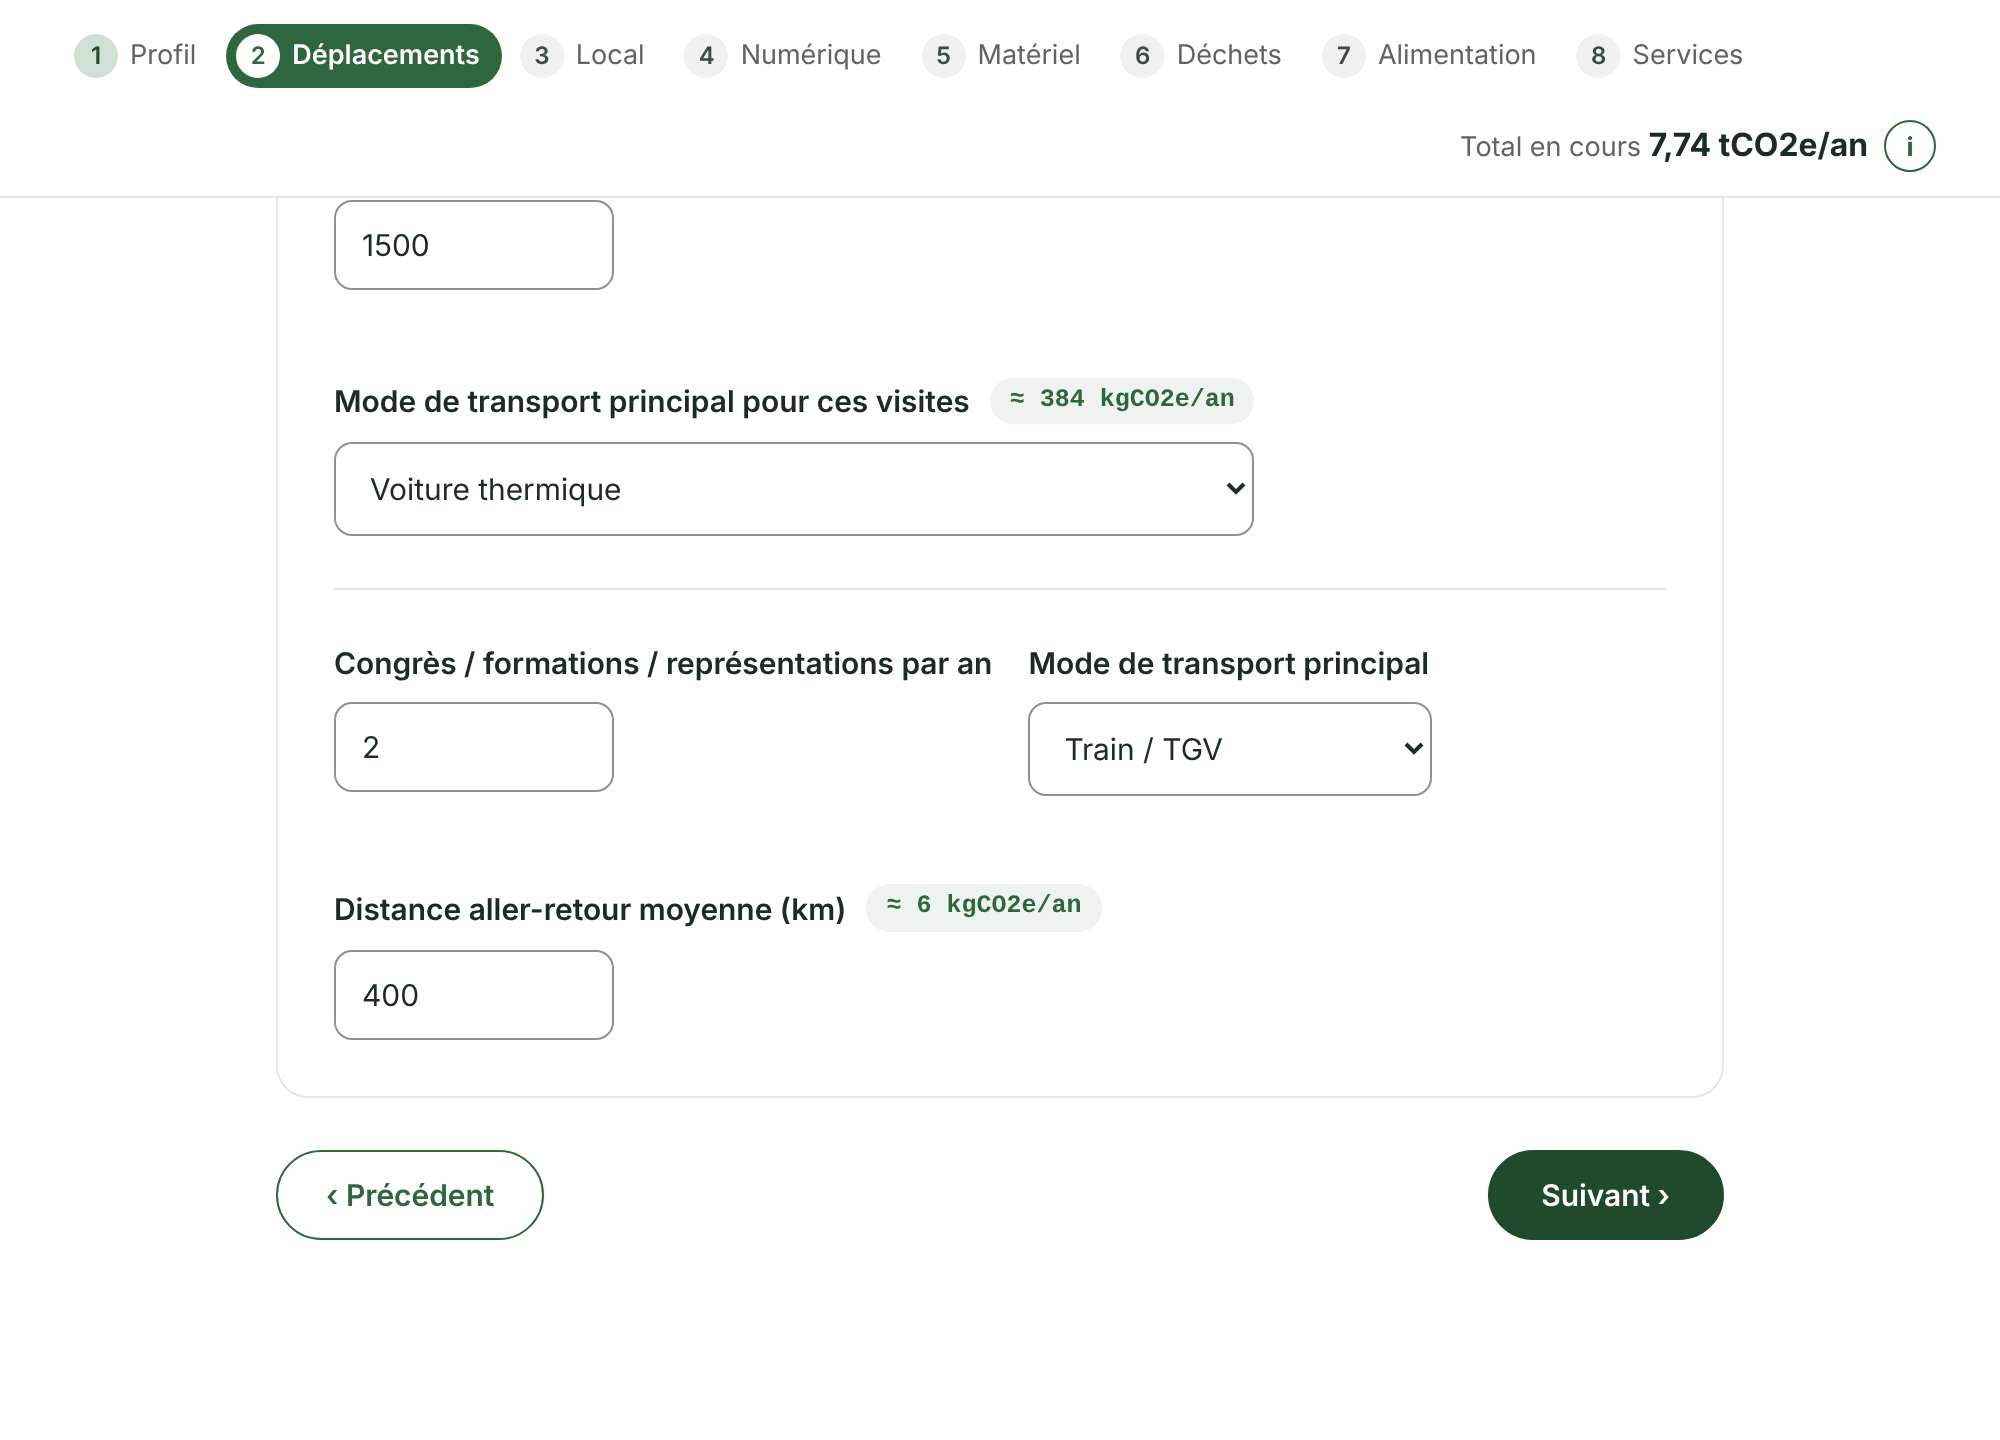
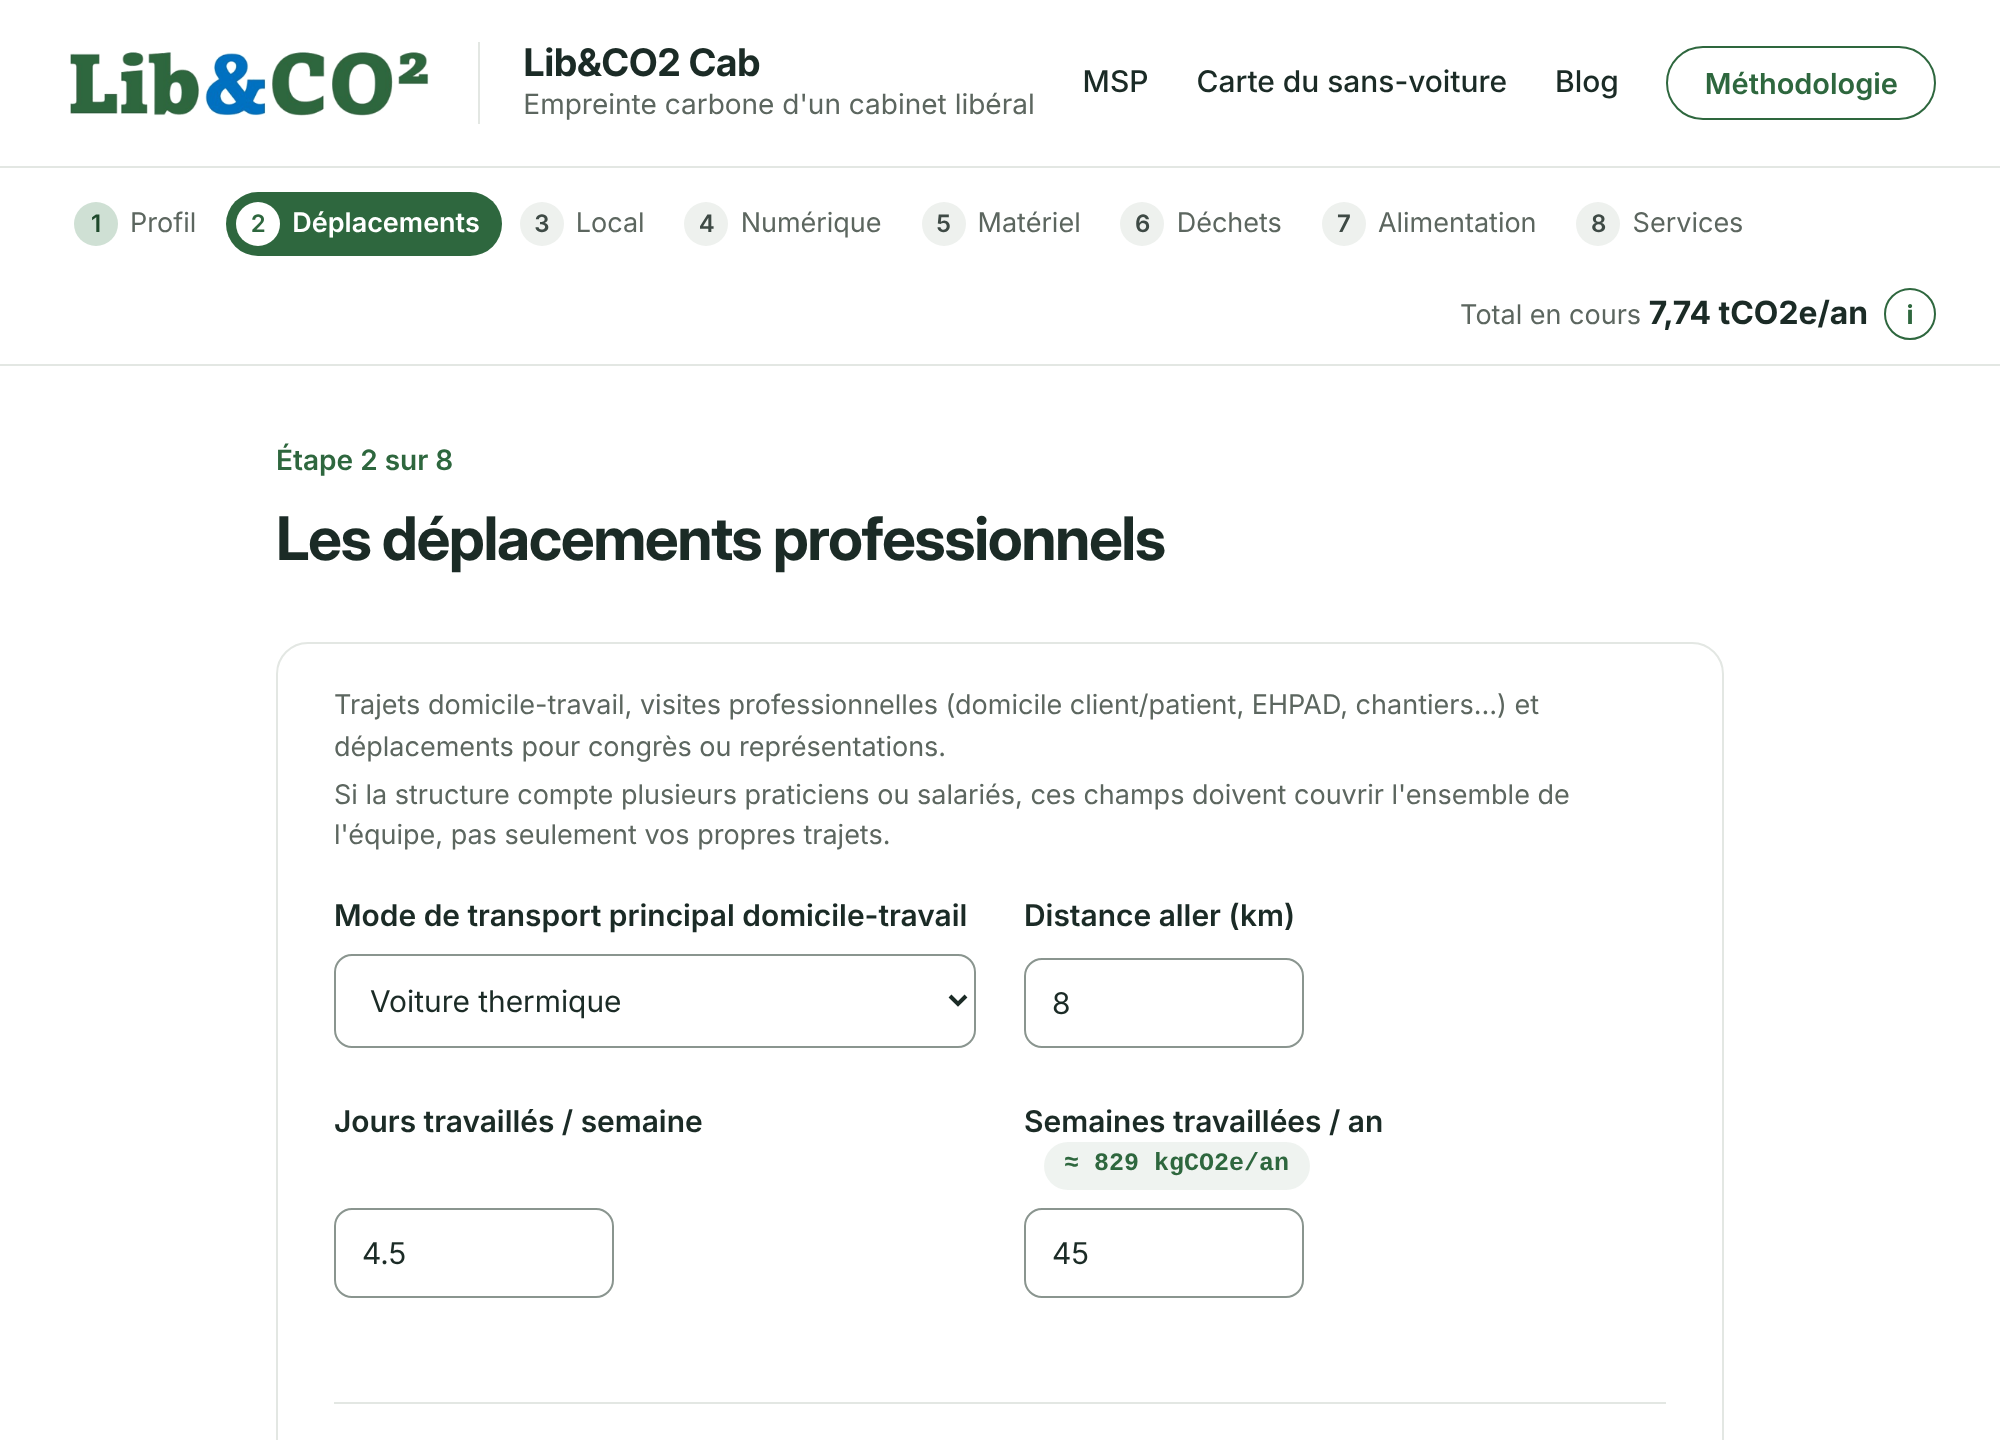
reprise esthetique de la page d'accueil

diff --git a/assets/css/accueil.css b/assets/css/accueil.css
@@ -1,6 +1,9 @@
-/* Accueil (index.html) — refonte du 03/11/2026 : fond blanc, grands titres
-   Inter, boutons en pilule, captures des outils ; aucun liseré de couleur,
-   cadres à bordure fine identique sur les quatre côtés. */
+/* Accueil (index.html) — agencement « proposition B » retenu le 03/11/2026 :
+   haut de page vert plein avec titre centré et capture qui déborde sur la
+   suite, chiffres clés, cartes d'outils (image, étiquette, titre, texte,
+   bouton), offres, histoire, appel final. Police Inter, fond blanc, bandes
+   gris clair, cadres à bordure fine identique sur les quatre côtés, aucun
+   liseré de couleur. */
 :root {
   --vert: var(--lc-vert);
   --vert-fonce: var(--lc-vert-fonce);
@@ -27,7 +30,7 @@ h1, h2, h3 {
   margin: 0;
 }
 a { color: var(--vert); }
-.conteneur { max-width: 1180px; margin: 0 auto; padding: 0 32px; }
+.conteneur { max-width: 1180px; margin: 0 auto; padding-left: 32px; padding-right: 32px; }
 
 /* Boutons */
 .bouton {
@@ -44,25 +47,27 @@ a { color: var(--vert); }
   transition: background-color 0.15s, color 0.15s;
 }
 .bouton:hover { background: var(--vert-fonce); border-color: var(--vert-fonce); }
-.bouton-contour { background: #fff; color: var(--vert); }
-.bouton-contour:hover { background: var(--lc-vert-fond); color: var(--vert-fonce); }
 .bouton-clair { background: #fff; border-color: #fff; color: var(--vert-fonce); }
-.bouton-clair:hover { background: #e6efe8; border-color: #e6efe8; }
+.bouton-clair:hover { background: #e6efe8; border-color: #e6efe8; color: var(--vert-fonce); }
+.bouton-transparent { background: transparent; border-color: rgba(255, 255, 255, 0.85); color: #fff; }
+.bouton-transparent:hover { background: rgba(255, 255, 255, 0.12); border-color: #fff; }
+.bouton-msp { background: var(--lc-bleu); border-color: var(--lc-bleu); }
+.bouton-msp:hover { background: var(--lc-bleu-fonce); border-color: var(--lc-bleu-fonce); }
 
-/* En-tête */
-.entete { display: flex; align-items: center; justify-content: space-between; gap: 24px; min-height: 84px; }
-.entete-logo img { height: 40px; width: auto; display: block; }
+/* Haut de page vert */
+.haut { background: var(--vert-fonce); color: #d6e4da; }
+.entete { display: flex; align-items: center; justify-content: space-between; gap: 24px; min-height: 88px; }
+.entete-logo img { height: 40px; width: auto; display: block; filter: brightness(0) invert(1); }
 .nav-haut { display: flex; align-items: center; gap: 28px; }
-.nav-haut a:not(.bouton) { color: var(--encre); font-weight: 500; font-size: 15px; text-decoration: none; }
-.nav-haut a:not(.bouton):hover { color: var(--vert); }
-
-/* Haut de page */
-.hero { max-width: 880px; padding: 88px 0 64px; }
-.surtitre, .numero, .etiquette, .annee { margin: 0; font-size: 14px; font-weight: 600; color: var(--vert); }
-.surtitre { margin-bottom: 20px; }
-.hero h1 { font-size: clamp(40px, 6.4vw, 76px); }
-.chapo { font-size: clamp(18px, 2vw, 21px); max-width: 32em; margin: 28px 0 36px; }
-.actions { display: flex; flex-wrap: wrap; gap: 12px; }
+.nav-haut a:not(.bouton) { color: #fff; font-weight: 500; font-size: 15px; text-decoration: none; }
+.nav-haut a:not(.bouton):hover { text-decoration: underline; }
+.hero { text-align: center; padding-top: 64px; }
+.surtitre { margin: 0 0 18px; font-size: 14px; font-weight: 600; color: #a8d4b4; }
+.hero h1 { color: #fff; font-size: clamp(38px, 6vw, 72px); max-width: 13em; margin: 0 auto; }
+.chapo { font-size: clamp(17px, 2vw, 20px); max-width: 36em; margin: 24px auto 34px; }
+.actions { display: flex; flex-wrap: wrap; justify-content: center; gap: 12px; }
+.hero { display: flow-root; }
+.hero picture { display: block; max-width: 940px; margin: 56px auto -120px; position: relative; z-index: 1; }
 img.capture[width] {
   display: block;
   width: 100%;
@@ -70,28 +75,45 @@ img.capture[width] {
   border-radius: var(--lc-rayon-carte);
   border: 1px solid var(--bordure);
 }
-.capture-hero { box-shadow: var(--lc-ombre-capture); }
+.capture-hero { box-shadow: 0 30px 60px -30px rgba(0, 0, 0, 0.45); }
+
+/* Chiffres clés (sous la capture qui déborde) */
+.chiffres { display: grid; grid-template-columns: repeat(3, 1fr); gap: 24px; text-align: center; padding-top: 180px; padding-bottom: 88px; }
+.chiffres p { margin: 0; color: var(--discret); font-size: 15px; }
+.chiffres .chiffre { font-size: clamp(44px, 5vw, 64px); font-weight: 700; letter-spacing: -0.03em; line-height: 1; color: var(--vert); margin-bottom: 8px; }
 
 /* Sections */
-.section { padding-top: 112px; padding-bottom: 112px; }
-.numero { margin-bottom: 14px; }
-.section h2 { font-size: clamp(32px, 4.4vw, 52px); max-width: 16em; }
-.intro { font-size: 18px; max-width: 38em; margin: 20px 0 0; }
+.section { padding-top: 96px; padding-bottom: 96px; }
+.section h2 { font-size: clamp(30px, 4vw, 48px); max-width: 16em; }
+.intro { font-size: 18px; max-width: 38em; margin: 18px 0 0; }
 .note { font-size: 14px; color: var(--discret); max-width: 52em; margin: 40px 0 0; }
 .bande { background: var(--bande); }
+.etiquette, .annee { margin: 0; font-size: 14px; font-weight: 600; color: var(--vert); }
+.etiquette-msp { color: var(--lc-bleu); }
 
-/* Outils */
-.liste-outils { margin-top: 48px; border-top: 1px solid var(--bordure); }
-.ligne-outil {
-  display: grid;
-  grid-template-columns: 260px 1fr 420px;
-  gap: 40px;
-  align-items: center;
-  padding: 40px 0;
+/* Cartes d'outils */
+.cartes-outils { display: grid; grid-template-columns: repeat(3, 1fr); gap: 24px; margin-top: 48px; }
+.carte-outil {
+  display: flex;
+  flex-direction: column;
+  background: #fff;
+  border: 1px solid var(--bordure);
+  border-radius: 18px;
+  overflow: hidden;
+}
+.carte-outil img[width] {
+  display: block;
+  width: 100%;
+  height: auto;
+  aspect-ratio: 4 / 3;
+  object-fit: cover;
+  object-position: top left;
   border-bottom: 1px solid var(--bordure);
 }
-.ligne-outil h3 { font-size: 30px; margin-top: 8px; }
-.ligne-outil p { margin: 0 0 20px; }
+.carte-outil-corps { display: flex; flex-direction: column; flex: 1; padding: 26px; }
+.carte-outil h3 { font-size: 28px; margin: 8px 0 12px; }
+.carte-outil-corps > p:not(.etiquette) { font-size: 15.5px; margin: 0 0 22px; flex: 1; }
+.carte-outil .bouton { align-self: flex-start; }
 
 /* Offres */
 .grille-offres { display: grid; grid-template-columns: repeat(4, 1fr); gap: 20px; margin-top: 48px; }
@@ -101,16 +123,16 @@ img.capture[width] {
   background: #fff;
   border: 1px solid var(--bordure);
   border-radius: var(--lc-rayon-carte);
-  padding: 28px;
+  padding: 26px;
 }
-.offre h3 { font-size: 20px; letter-spacing: -0.01em; line-height: 1.2; }
+.offre h3 { font-size: 21px; letter-spacing: -0.012em; line-height: 1.2; }
 .offre p { font-size: 15px; margin: 12px 0 20px; flex: 1; }
 .offre a { font-weight: 600; font-size: 15px; text-decoration: none; }
 .offre a:hover { text-decoration: underline; }
 
 /* Histoire */
-.histoire { display: grid; grid-template-columns: 1fr 1fr; gap: 56px; margin-top: 48px; }
-.histoire h3 { font-size: 28px; margin: 8px 0 14px; }
+.histoire { display: grid; grid-template-columns: 1fr 1fr; gap: 56px; margin-top: 44px; }
+.histoire h3 { font-size: 26px; margin: 8px 0 14px; }
 .histoire p { margin: 0 0 14px; }
 
 /* Appel final */
@@ -120,9 +142,8 @@ img.capture[width] {
   border-radius: 24px;
   padding: 72px 32px;
   text-align: center;
-  margin-bottom: 96px;
 }
-.appel h2 { color: #fff; font-size: clamp(32px, 4.4vw, 52px); }
+.appel h2 { color: #fff; font-size: clamp(30px, 4vw, 48px); margin: 0 auto; }
 .appel p { margin: 18px auto 30px; max-width: 34em; }
 
 /* Pied de page */
@@ -137,15 +158,17 @@ img.capture[width] {
 .pied a:hover { color: var(--vert); }
 
 @media (max-width: 1000px) {
-  .ligne-outil { grid-template-columns: 1fr 1fr; }
-  .ligne-outil picture { grid-column: 1 / -1; }
+  .cartes-outils { grid-template-columns: 1fr 1fr; }
   .grille-offres { grid-template-columns: 1fr 1fr; }
 }
 @media (max-width: 680px) {
-  .conteneur { padding: 0 20px; }
+  .conteneur { padding-left: 20px; padding-right: 20px; }
   .nav-haut a:not(.bouton) { display: none; }
-  .hero { padding: 48px 0 40px; }
-  .section { padding-top: 72px; padding-bottom: 72px; }
-  .ligne-outil, .grille-offres, .histoire { grid-template-columns: 1fr; gap: 20px; }
+  .entete-logo img { height: 32px; }
+  .hero { padding-top: 32px; }
+  .hero picture { margin: 36px auto -60px; }
+  .chiffres { grid-template-columns: 1fr; padding-top: 104px; padding-bottom: 56px; gap: 28px; }
+  .section { padding-top: 64px; padding-bottom: 64px; }
+  .cartes-outils, .grille-offres, .histoire { grid-template-columns: 1fr; gap: 20px; }
   .appel { padding: 48px 20px; }
 }
